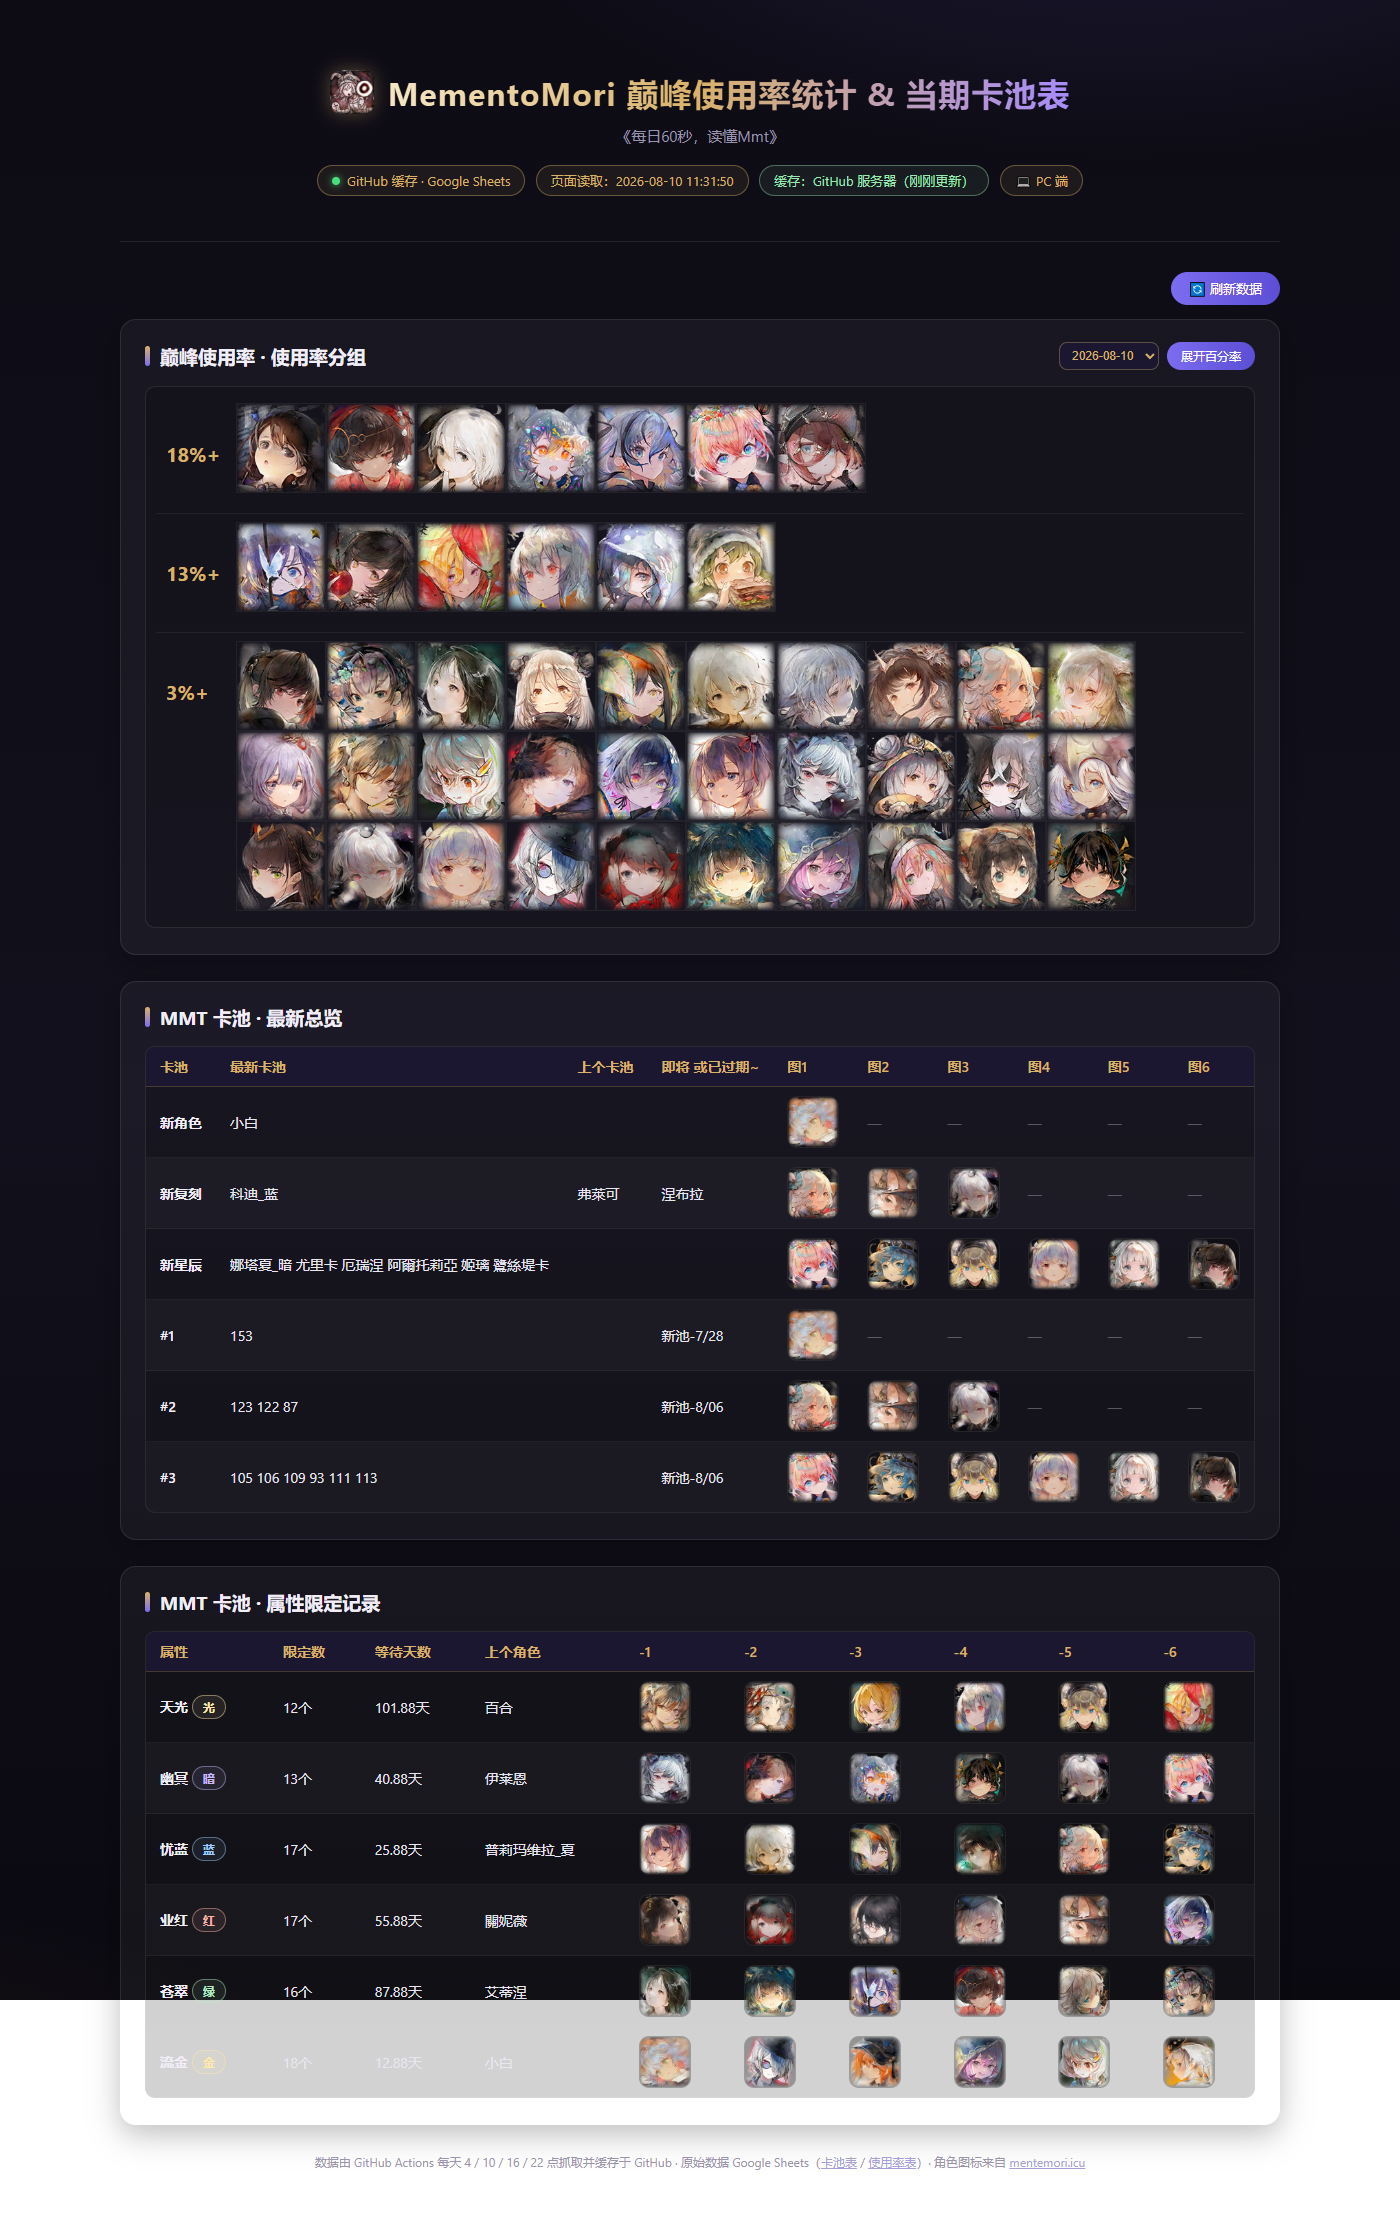
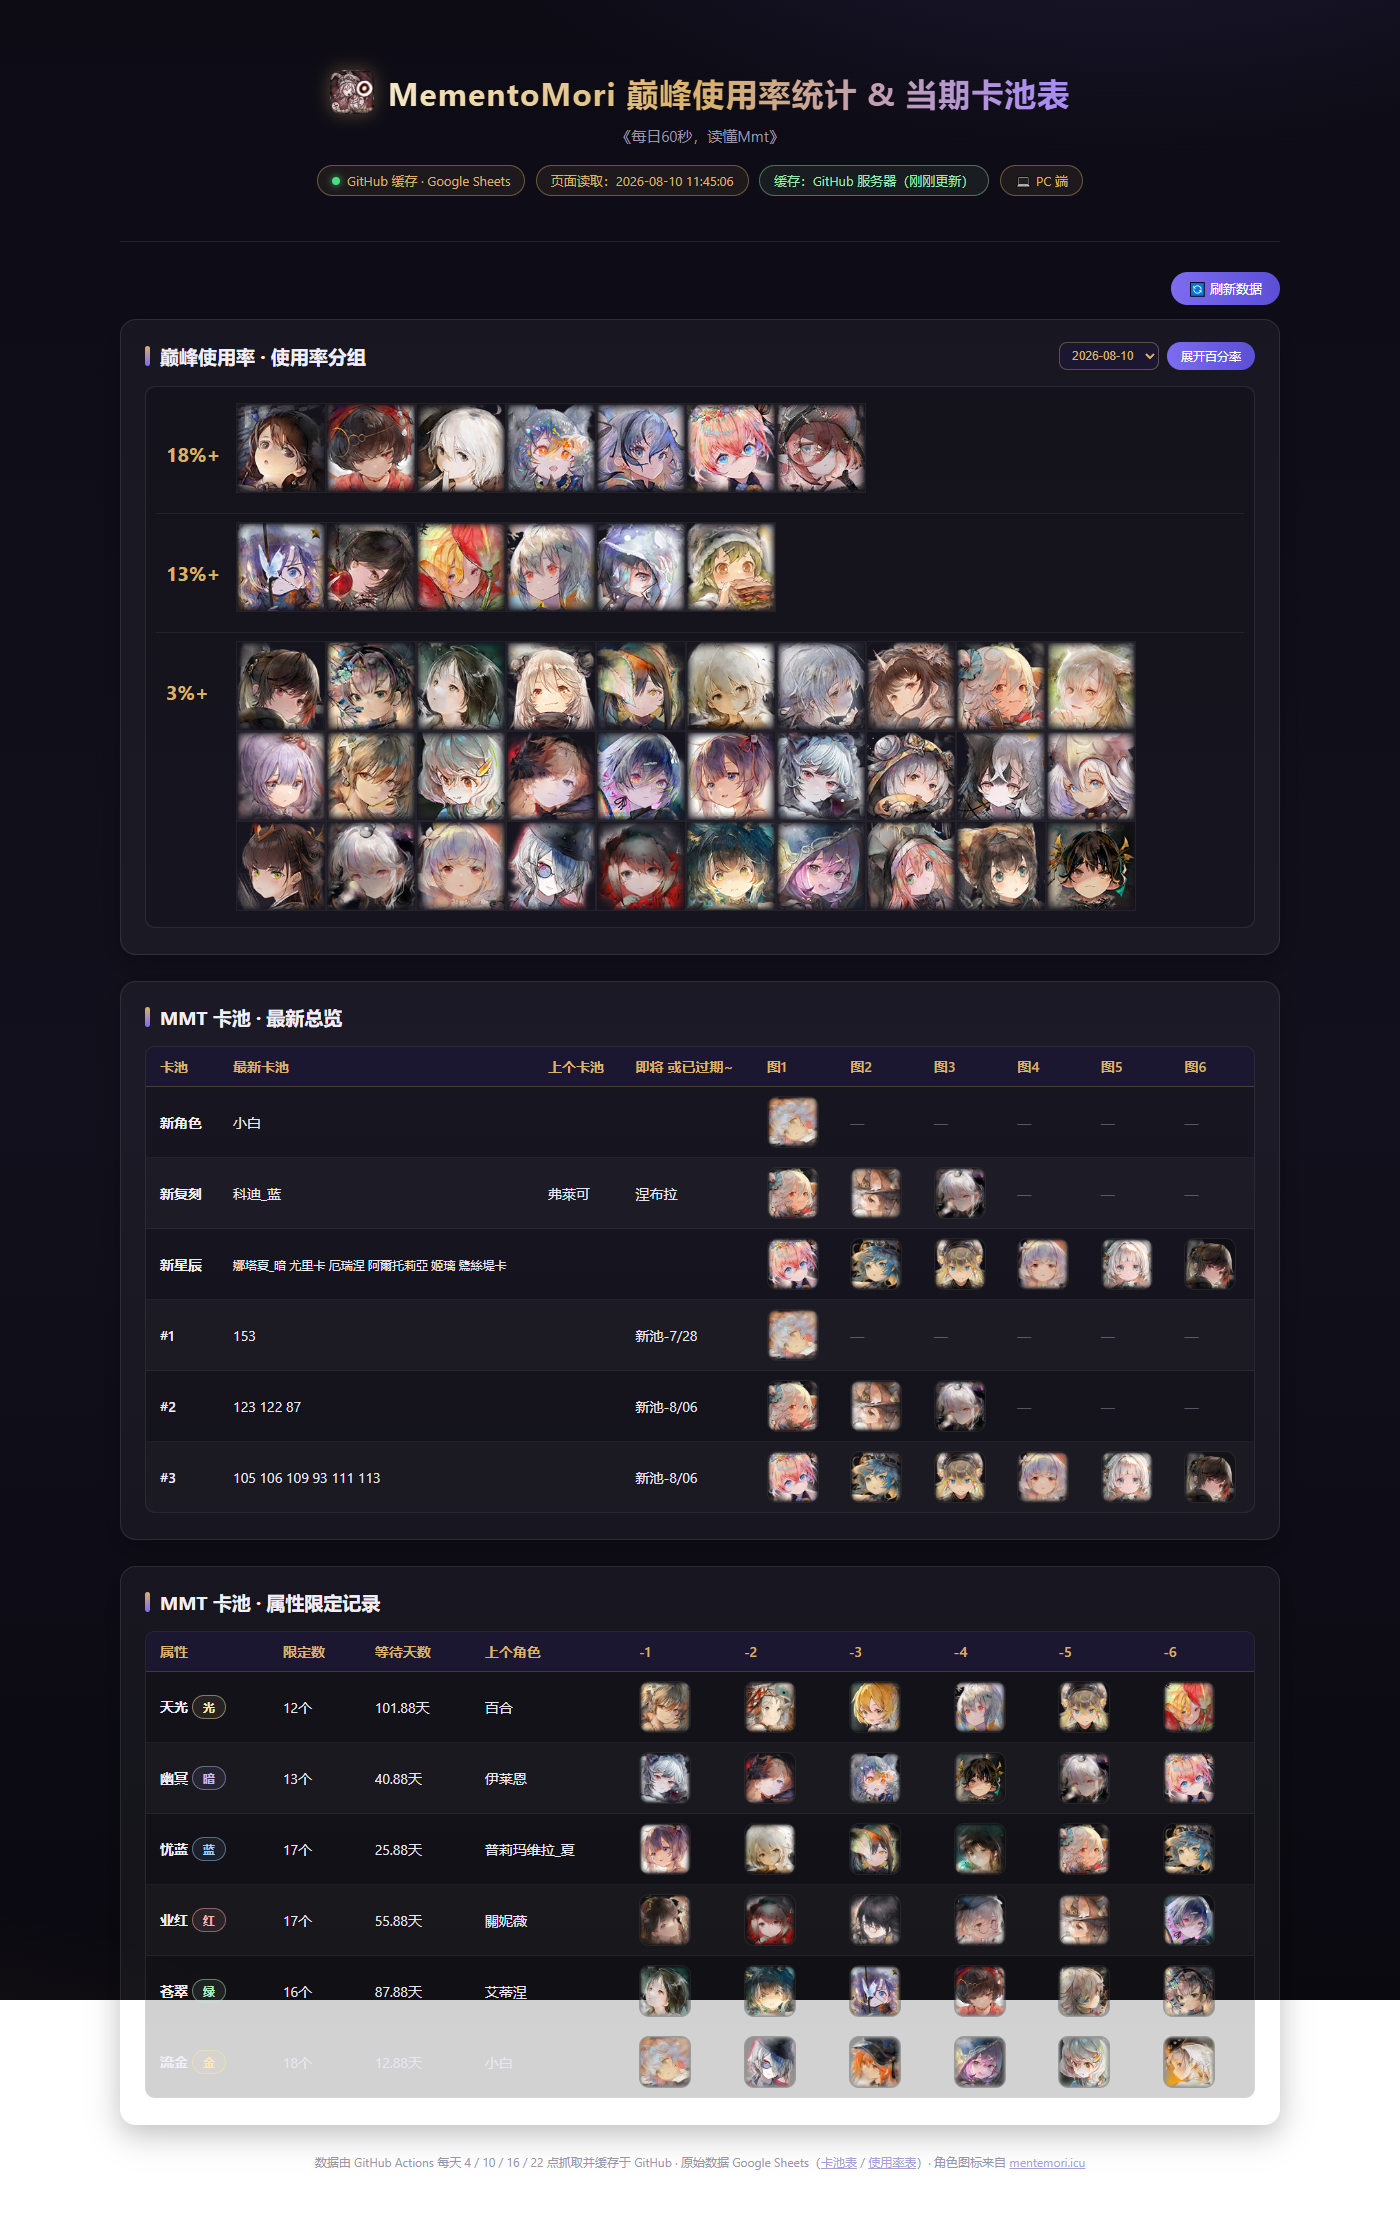
移动端压缩卡池表图标空隙、新星辰名字两行紧贴且不撑高行(桌面不变)

diff --git a/index.html b/index.html
@@ -138,6 +138,9 @@ tbody tr:nth-child(even){background:rgba(255,255,255,.03)}
 tbody tr:hover{background:rgba(124,108,240,.14)}
 tbody tr:last-child td{border-bottom:none}
 .cell-name{font-weight:600;color:#f1eef8}
+.cell-two-line{font-size:12px;line-height:1.15;white-space:nowrap;display:inline-block;vertical-align:middle}
+.cell-two-line .l1::after{content:" "}
+.cell-two-line .lb{display:none}
 .cell-ico{min-width:64px}
 .cell-ico .ico{
   display:inline-block;
@@ -216,7 +219,11 @@ footer a{color:#a99fd9}
   section.card h2{font-size:15px}
   .h2-note{flex-wrap:wrap}
   thead th, tbody td{padding:7px 8px;font-size:12px}
-  .cell-ico .ico{width:40px;height:40px;border-radius:6px}
+  .cell-ico{padding:4px 2px}
+  .cell-ico .ico{width:34px;height:34px;border-radius:5px}
+  .cell-two-line{font-size:10px;line-height:1.1;white-space:normal}
+  .cell-two-line .lb{display:inline}
+  .cell-two-line .l1::after{content:""}
   .toolbar{justify-content:center}
   .grp{display:block}
   .grp-label{line-height:normal;padding:8px 4px;font-size:15px}
@@ -460,12 +467,18 @@ function iconsCell(ids){
 function esc(v){
   return String(v == null ? "" : v).replace(/&/g,"&amp;").replace(/</g,"&lt;").replace(/>/g,"&gt;").replace(/"/g,"&quot;");
 }
+function twoLineNames(s){
+  const parts = String(s || "").split(/\s+/).filter(Boolean);
+  if (parts.length <= 3) return esc(s);
+  const mid = Math.ceil(parts.length / 2);
+  return '<span class="cell-two-line"><span class="l1">' + esc(parts.slice(0, mid).join(" ")) + '</span><br class="lb"><span class="l2">' + esc(parts.slice(mid).join(" ")) + '</span></span>';
+}
 function renderOverview(ov){
   let body = "";
   for (const r of ov){
     body += "<tr>"
       + '<td class="cell-name">' + esc(r.name) + "</td>"
-      + "<td>" + esc(r.latest) + "</td>"
+      + "<td>" + (r.name === "新星辰" ? twoLineNames(r.latest) : esc(r.latest)) + "</td>"
       + "<td>" + esc(r.prev) + "</td>"
       + "<td>" + esc(r.upcoming) + "</td>"
       + iconsCell(r.ids)
